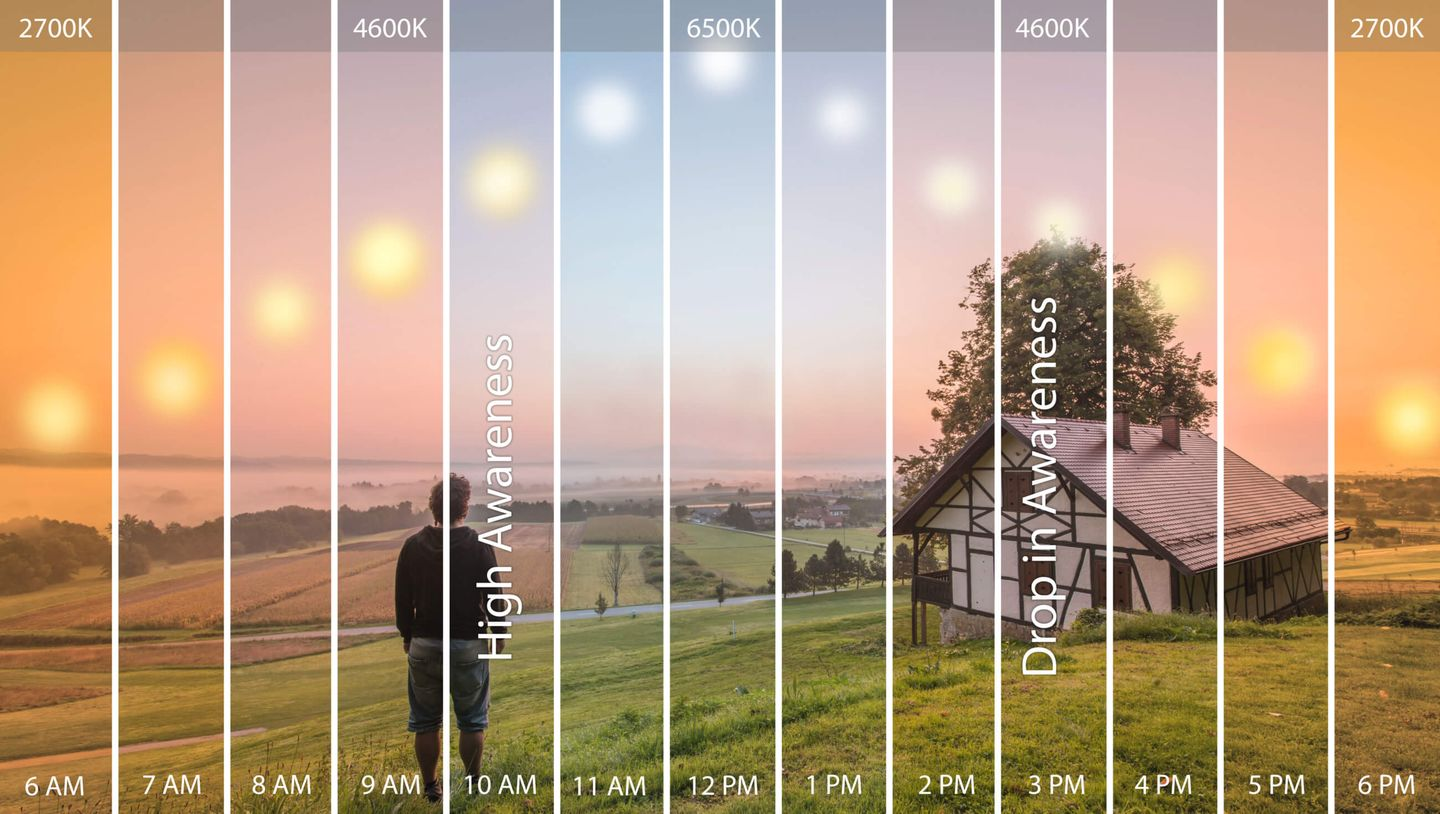
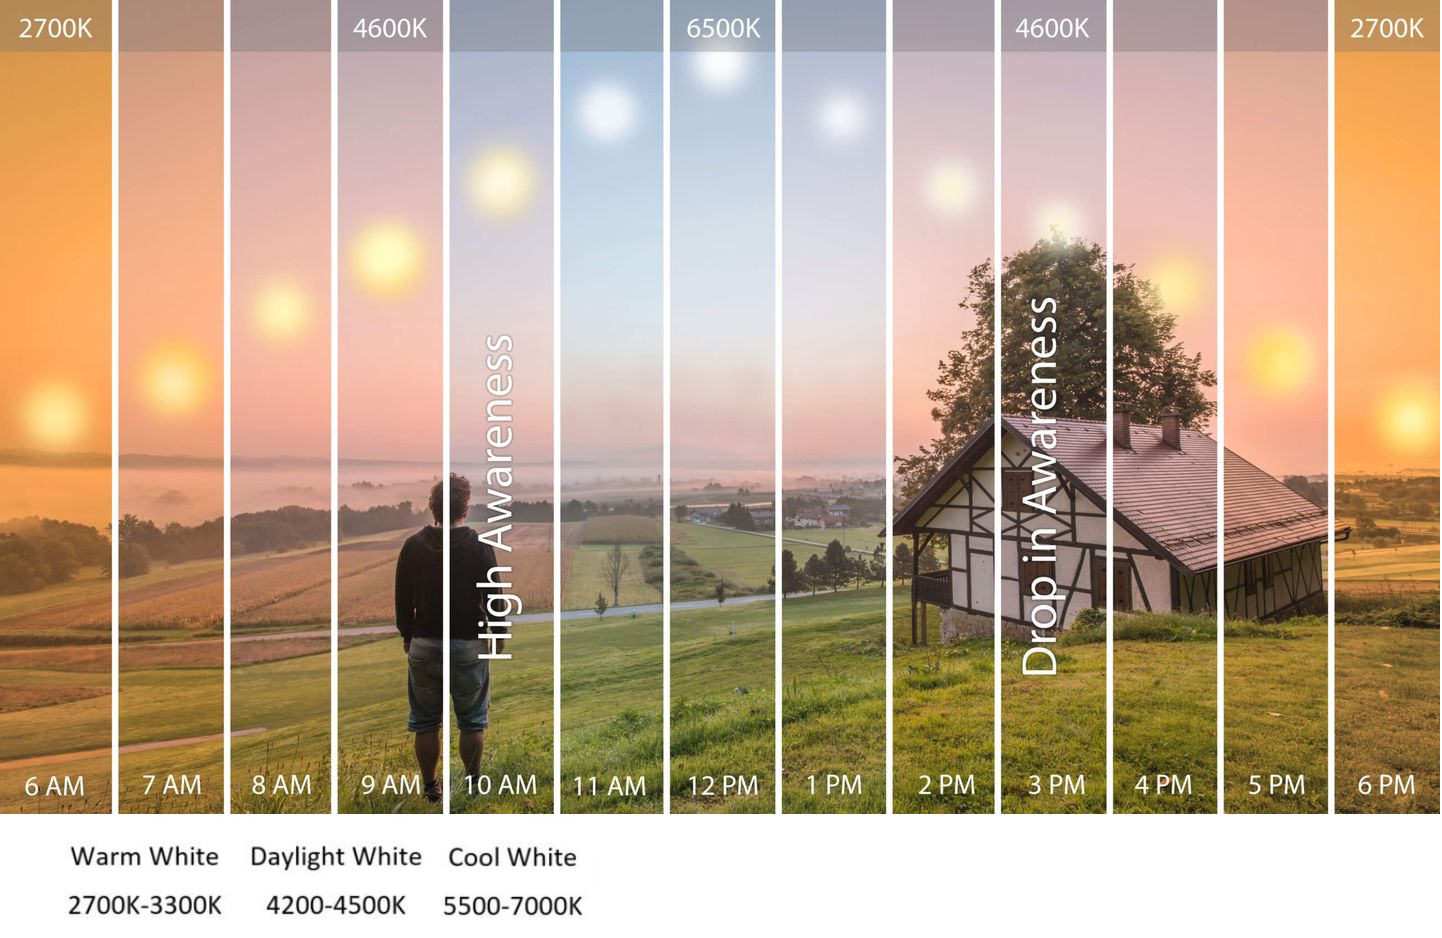
添加常用色温

diff --git a/color_temperature.md b/color_temperature.md
@@ -5,6 +5,52 @@
 <img src=./img/03.png width=50%>
 <img src=./img/15.png width=50%>
 
+* 色温等级<br>
+<img src=./img/23.png width=50%>
+<img src=./img/25.png width=50%>
+
+1、2700K~3200K 暖白(白炽灯),黄色光，强穿透力
+
+2、4200K　自然白,白中带黄，(氙气灯)
+
+3、5000K　光全白
+
+4、6000K　正白,光全白，略带蓝色
+
+5、6500K　阳光下的白天
+
+6、7000—8000K白中明显带蓝
+
+7、8000K以上蓝光，穿透力极
+
+* 常见的光源色温：
+
+1700 K：火柴光
+
+1850 K：蜡烛
+
+2800 K：钨灯（白炽灯）的常见色温
+
+3000 K：卤素灯及黄光日光灯的常见色温
+
+3350 K：演播室“CP”灯
+
+3400 K：演播室台灯,、照相泛光灯（不是闪光灯）等...
+
+4100 K：月光、浅黄光日光灯
+
+5000 K：日光
+
+5500 K：平均日光、电子闪光（因厂商而异）
+
+5770 K：有效太阳温度
+
+6420 K：氙弧灯
+
+6500 K：最常见的白光日光灯色温
+
+9300 K：电视屏幕（模拟）
+
 ## 色温单位(K)
 * 1800年代后期，当时英国物理学家威廉·开尔文（William Kelvin）加热了一块碳。它在热量中发光，在不同的温度下产生各种不同的颜色，制定出了一套色温计算法，为了纪念他的杰出贡献，色温以开氏温度（K）表示。
 <br><img src=./img/04.png width=50%>
@@ -48,6 +94,16 @@
 # 各种物体对应的色温
 <img src=./img/01.png width=50%>
 
+# 蓝光
+高色温会带来更多的蓝光，我们可以在下图中看到色温超过3000K，蓝光的能量就突然增加了，蓝光是属于波长400-480纳米之间的高能量短波，蓝光对视网膜的危害程度最大。家居照明中我们应该尽量避免采用高色温灯光照明
+
+<img src=./img/24.png width=50%>
+
+台灯光源为何不宜超过4000K
+
+在最新版GB/T 9473-2017国家标准《读写作业台灯性能要求》中指出夜间使用建议不大4000K
+
+
 # 暖光和冷光
 冷光和暖光主要是由光源的色温决定的。
 
@@ -56,6 +112,9 @@
 色温在3000K以下时, 光色就有偏红的现象, 给人以温暖的感觉。叫暖光。
 
 白天的自然光源属于较高的色温，而到了黄昏的自然光源属于低色温，因此人类的大脑在高色温照明下会比较有精神，而在低色温照明下则会认为该睡了
+
+# 双色温灯
+双色温是由两种色温的 LED灯珠 组成，一组一般为3000K色温，另一组为6000K色温。 使用时可以分别选用这两种色温，也可以让它们组成混光，此时色温在4000多K，以满足不同色调的需要
 
 # 双色温PWM计算
 色温合成通常用:双色温LED，冷光+暖光
@@ -72,9 +131,20 @@ b=y/(1+c)
 a=y*c/(1+c) 或 a=y-b
 ```
 ``` c
-    uint8_t color_temperature, brightness;
-    uint8_t warm_tmp = color_temperature * brightness / 100;
-    uint8_t cold_tmp = (100 - color_temperature) * brightness / 100;
+ /** 简单的双色温调节
+ * @brief Set the Color Temperature object
+ * 
+ * @param color_temperature [0-100]
+ * @param brightness [0-100]
+ */
+void setColorTemperature(uint8_t color_temperature,uint8_t brightness)
+{
+    //uint8_t color_temperature, brightness;
+    uint8_t warm_tmp = (100 - color_temperature) * brightness / 100;
+    uint8_t cold_tmp = color_temperature * brightness / 100;
     warm_tmp         = warm_tmp < 15 ? warm_tmp : 14 + warm_tmp * 86 / 100;
     cold_tmp         = cold_tmp < 15 ? cold_tmp : 14 + cold_tmp * 86 / 100;
+    printf("warm:%d,cold:%d\n",warm_tmp,cold_tmp);
+}
+
 ```
